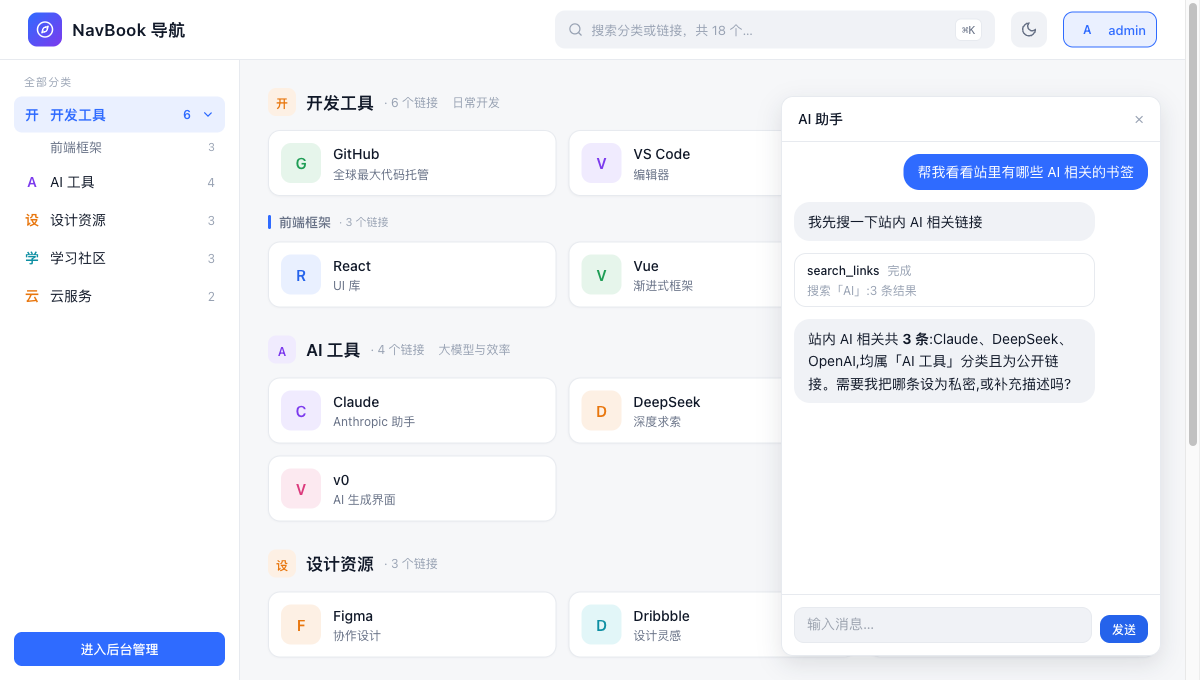
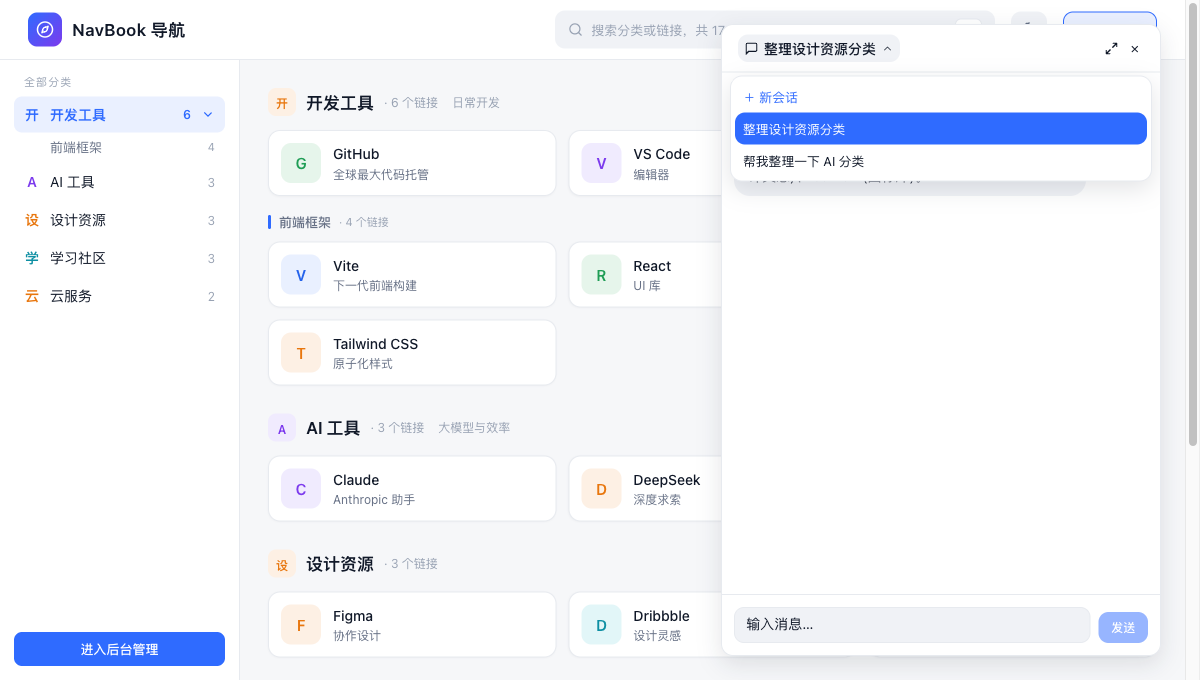
feat(assistant): 主题气泡会话切换——头部下拉列表(当前高亮/running绿点/新会话),切换自动重挂续流
shared 统一组件层实现,compass/gazette 零改动同时获得;
生成中切走 DO 照跑、切回续流;截图更新(bubble.png 展示下拉+双会话)。

diff --git a/shared/src/assistant/AssistantBubble.tsx b/shared/src/assistant/AssistantBubble.tsx
@@ -4,7 +4,7 @@
 // 图标经 icon prop 替换;面板尺寸/圆角/阴影可调。样式见 ./assistant.css(.nba-*)。
 import { useEffect, useRef, useState, useSyncExternalStore, lazy, Suspense, type CSSProperties, type ReactNode } from 'react';
 import { ChatMachine, createApiClient, activityLabel, blockedReason } from '../index';
-import type { ChatMessageDto, ChatSseEvent, SessionInfo, UiItem } from '../chat/types';
+import type { ChatMessageDto, ChatSseEvent, ConversationDto, SessionInfo, UiItem } from '../chat/types';
 import './assistant.css';
 
 // markdown 库较重,懒加载分包
@@ -83,6 +83,8 @@ function ChatPanel({ onClose, storageKey, title, placeholder }: {
   const snap = useSyncExternalStore(machine.subscribe, machine.snapshot);
   const [input, setInput] = useState('');
   const [maximized, setMaximized] = useState(false);
+  const [convs, setConvs] = useState<ConversationDto[] | null>(null);
+  const [convOpen, setConvOpen] = useState(false);
   const [tick, setTick] = useState(0);   // running 卡计时(1s)
   const bottomRef = useRef<HTMLDivElement>(null);
   const blocked = blockedReason(snap);
@@ -115,10 +117,45 @@ function ChatPanel({ onClose, storageKey, title, placeholder }: {
     await machine.send(text);
   };
 
+  // 会话切换:开下拉时拉列表(running 绿点随拉取快照);选中 open(cid) 自带重挂,
+  // 生成中切走 DO 照跑、切回续流;open(null) 开新会话(下一条消息创建)
+  const toggleConvList = async () => {
+    setConvOpen(v => !v);
+    if (!convOpen) {
+      try { const res = await api.aiConversations(); setConvs(res.data); } catch { /* 保底旧列表 */ }
+    }
+  };
+  const pickConv = async (cid: number | null) => {
+    setConvOpen(false);
+    if (cid !== snap.conversationId) await machine.open(cid);
+  };
+
   return (
     <div className={`nba-panel${maximized ? ' nba-max' : ''}`}>
       <div className="nba-head">
-        <span className="nba-title">{title}</span>
+        <button className="nba-conv-toggle" onClick={() => void toggleConvList()}
+          title="切换会话" aria-label="切换会话" aria-expanded={convOpen}>
+          <svg width="14" height="14" viewBox="0 0 24 24" fill="none" stroke="currentColor" strokeWidth="2" strokeLinecap="round">
+            <path d="M21 15a2 2 0 0 1-2 2H7l-4 4V5a2 2 0 0 1 2-2h14a2 2 0 0 1 2 2z" />
+          </svg>
+          <span className="nba-conv-cur">{convs?.find(c => c.id === snap.conversationId)?.title || title}</span>
+          <svg className={`nba-conv-chev${convOpen ? ' nba-open' : ''}`} width="12" height="12" viewBox="0 0 24 24" fill="none" stroke="currentColor" strokeWidth="2" strokeLinecap="round">
+            <path d="M6 9l6 6 6-6" />
+          </svg>
+        </button>
+        {convOpen && (
+          <div className="nba-conv-list">
+            <button className="nba-conv-new" onClick={() => void pickConv(null)}>＋ 新会话</button>
+            {(convs ?? []).map(c => (
+              <button key={c.id} onClick={() => void pickConv(c.id)}
+                className={`nba-conv-item${c.id === snap.conversationId ? ' nba-cur' : ''}`}>
+                {c.running && <span className="nba-conv-dot" aria-label="生成中" />}
+                <span className="nba-conv-title">{c.title || '(未命名)'}</span>
+              </button>
+            ))}
+            {convs != null && !convs.length && <p className="nba-conv-empty">还没有会话,发送第一条消息即创建</p>}
+          </div>
+        )}
         <span className="nba-head-actions">
           <button className="nba-expand" onClick={() => setMaximized(v => !v)}
             aria-label={maximized ? '收起面板' : '放大面板'} title={maximized ? '收起面板' : '放大面板'}>

diff --git a/shared/src/assistant/assistant.css b/shared/src/assistant/assistant.css
@@ -29,7 +29,7 @@
   height: calc(100dvh - 1.5rem);
 }
 
-.nba-head { display: flex; align-items: center; justify-content: space-between;
+.nba-head { display: flex; align-items: center; justify-content: space-between; position: relative;
   padding: .6rem 1rem; border-bottom: 1px solid var(--nba-border); }
 .nba-title { font-size: .875rem; font-weight: 500; }
 .nba-expand { background: none; border: none; cursor: pointer; color: var(--nba-faint);
@@ -39,6 +39,33 @@
 .nba-close { background: none; border: none; cursor: pointer; color: var(--nba-faint);
   font-size: .875rem; padding: .15rem .3rem; }
 .nba-close:hover { color: var(--nba-fg); }
+
+/* ---- 会话切换器(头部下拉) ---- */
+.nba-conv-toggle { display: flex; align-items: center; gap: .35rem; min-width: 0;
+  background: none; border: none; cursor: pointer; padding: .2rem .4rem; border-radius: var(--nba-radius-btn);
+  color: var(--nba-fg); font-size: .875rem; font-weight: 500; }
+.nba-conv-toggle:hover { background: var(--nba-field); }
+.nba-conv-cur { max-width: 220px; overflow: hidden; text-overflow: ellipsis; white-space: nowrap; }
+.nba-conv-chev { color: var(--nba-faint); transition: transform .15s; flex: none; }
+.nba-conv-chev.nba-open { transform: rotate(180deg); }
+.nba-conv-list { position: absolute; top: calc(100% + 4px); left: .5rem; right: .5rem; z-index: 30;
+  max-height: 260px; overflow-y: auto; padding: .25rem;
+  background: var(--nba-bg); border: 1px solid var(--nba-border); border-radius: var(--nba-radius);
+  box-shadow: var(--nba-shadow); }
+.nba-conv-new { display: block; width: 100%; text-align: left; border: none; cursor: pointer;
+  background: none; color: var(--nba-accent); font-size: .8rem; padding: .4rem .5rem;
+  border-radius: var(--nba-radius-btn); }
+.nba-conv-new:hover { background: var(--nba-field); }
+.nba-conv-item { display: flex; align-items: center; gap: .4rem; width: 100%; text-align: left;
+  border: none; cursor: pointer; background: none; color: var(--nba-fg);
+  font-size: .8rem; padding: .4rem .5rem; border-radius: var(--nba-radius-btn); }
+.nba-conv-item:hover { background: var(--nba-field); }
+.nba-conv-item.nba-cur { background: var(--nba-accent); color: var(--nba-accent-fg); }
+.nba-conv-dot { flex: none; width: 6px; height: 6px; border-radius: 50%; background: #34d399;
+  animation: nba-pulse 1.2s ease-in-out infinite; }
+.nba-conv-title { overflow: hidden; text-overflow: ellipsis; white-space: nowrap; }
+.nba-conv-empty { padding: .6rem .5rem; font-size: .75rem; color: var(--nba-faint); }
+@keyframes nba-pulse { 0%, 100% { opacity: 1; } 50% { opacity: .35; } }
 
 .nba-body { flex: 1; overflow-y: auto; padding: .75rem; display: flex; flex-direction: column; gap: .75rem; }
 
